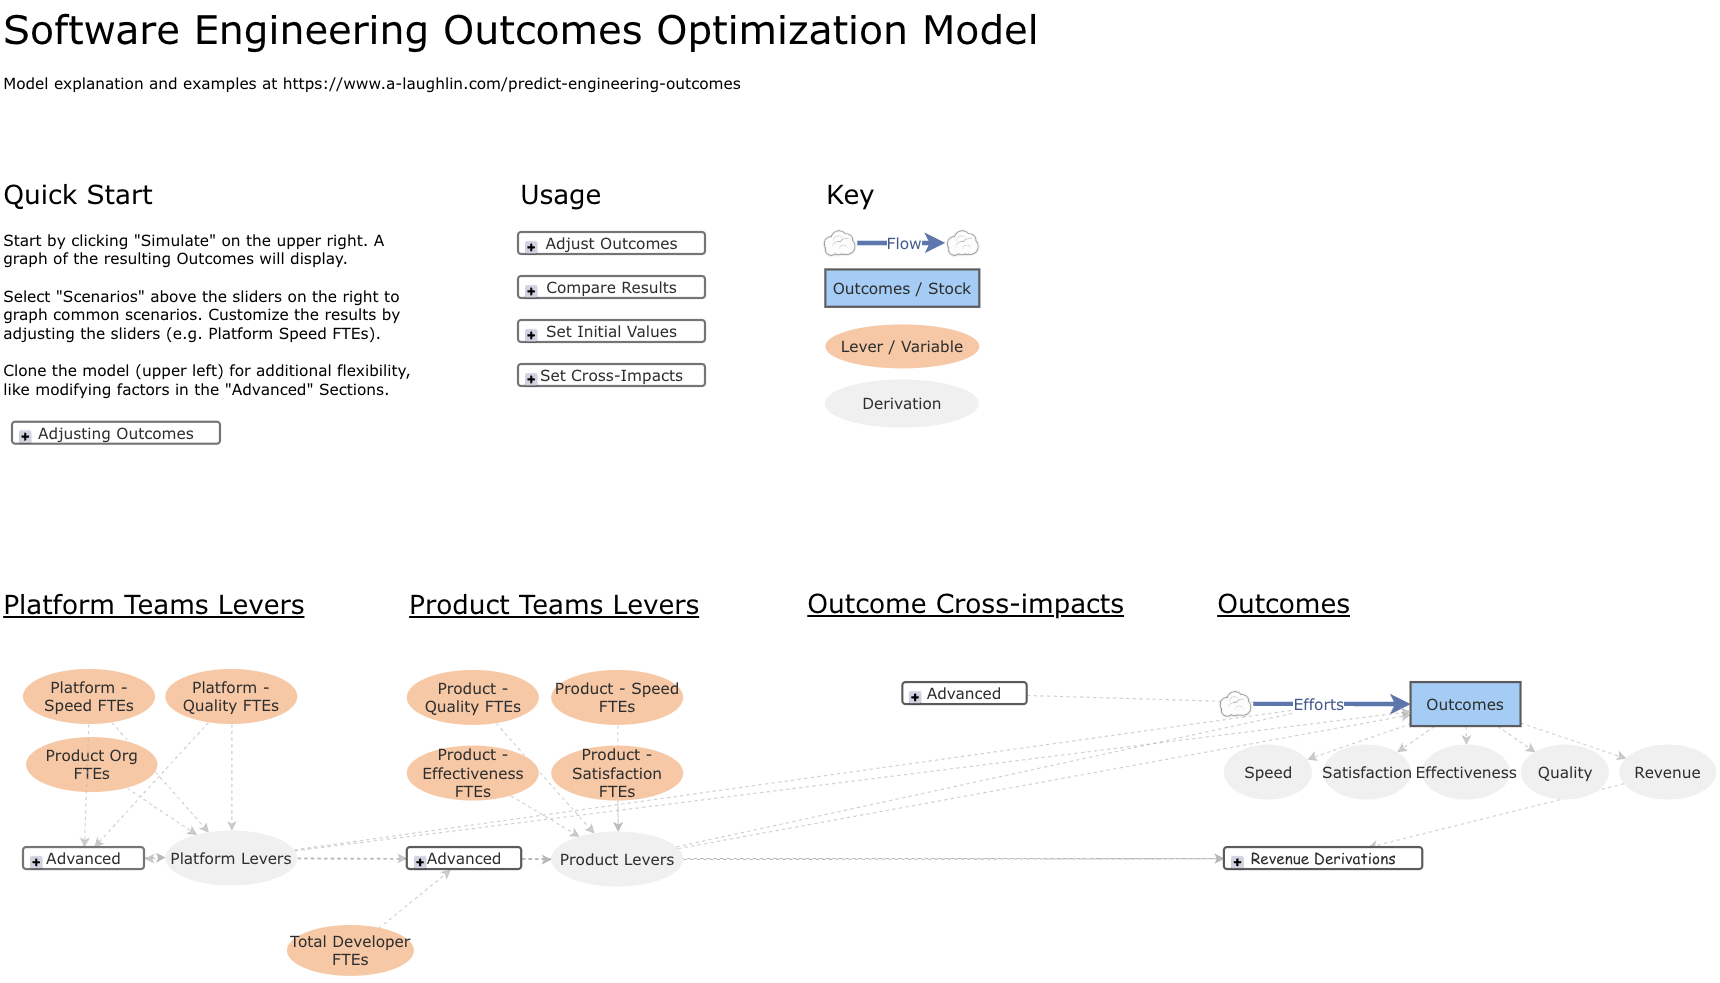
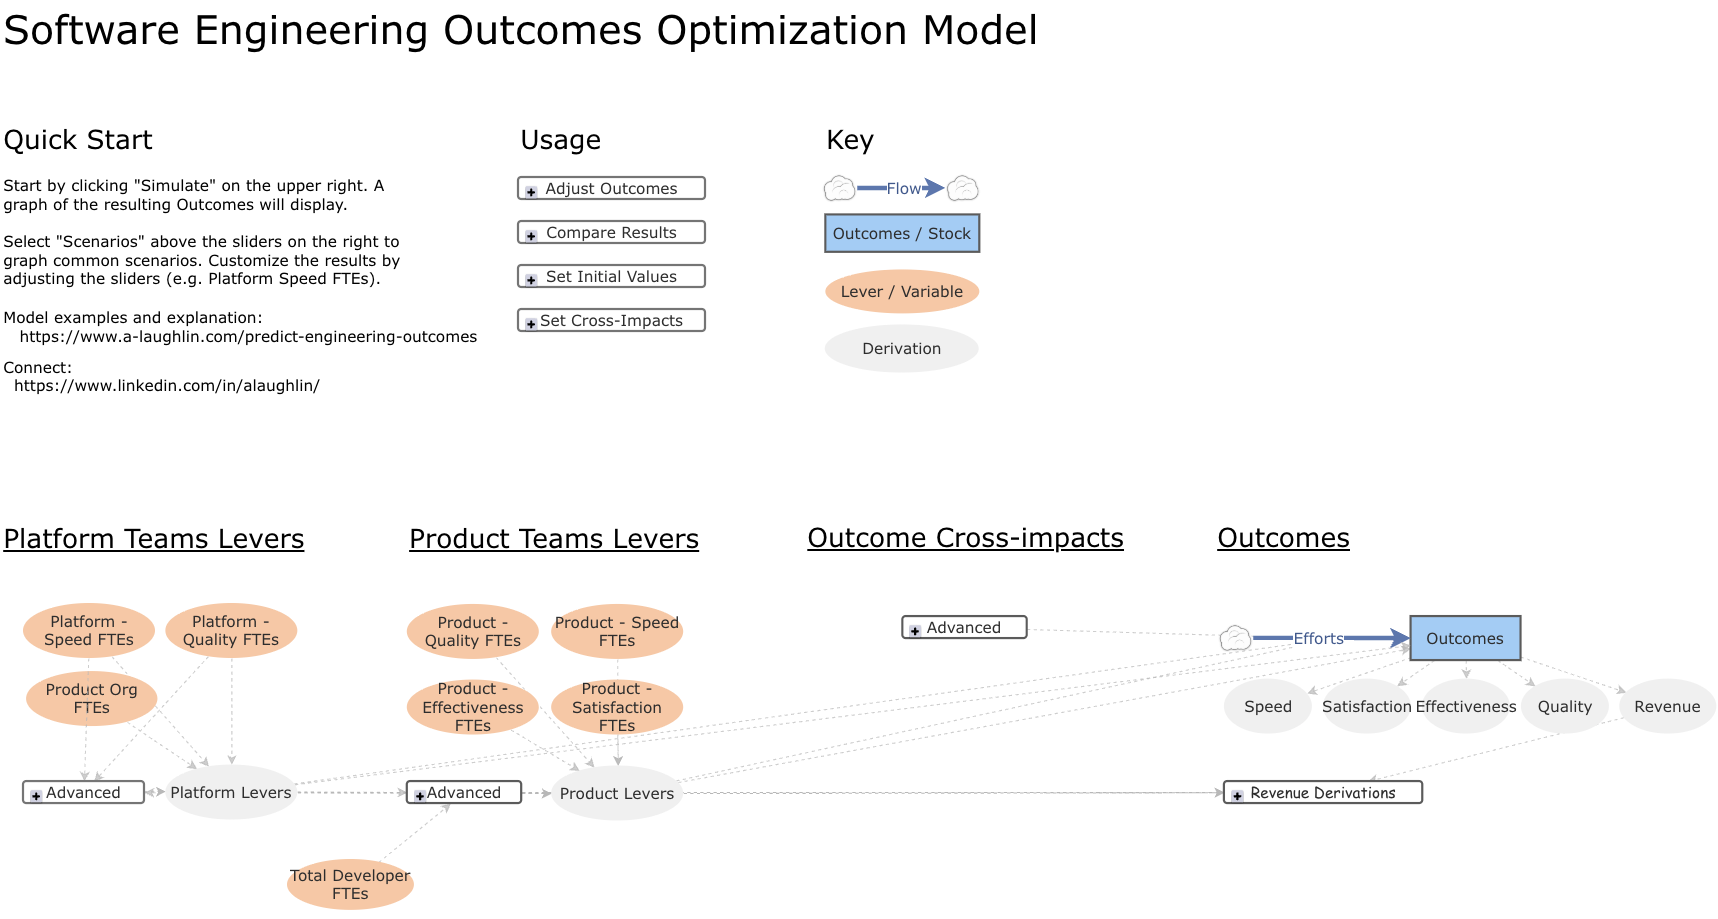
updates

diff --git a/_posts/2025-09-30-predict-engineering-outcomes.md b/_posts/2025-09-30-predict-engineering-outcomes.md
@@ -21,6 +21,8 @@ Like any model, it is wrong but useful.
   - [How Should We Allocate Developers to Maximize Revenue?](#how-should-we-allocate-developers-to-maximize-revenue)
   - [How Can We Justify Platform / Infrastructure Work?](#how-can-we-justify-platform--infrastructure-work)
   - [Should Product Engineering Teams Develop Their Own Tools and Processes?](#should-product-engineering-teams-develop-their-own-tools-and-processes)
+- [System Dynamics Modeling](#system-dynamics-modeling)
+- [The Model](#the-model)
 - [How the Model Gets from FTEs to Outcomes](#how-the-model-gets-from-ftes-to-outcomes)
 - [How Each Outcome is Modeled](#how-each-outcome-is-modeled)
   - [Speed](#speed)
@@ -29,7 +31,6 @@ Like any model, it is wrong but useful.
   - [Quality](#quality)
   - [Revenue](#revenue)
 - [Assumptions, Omissions, and Oversimplifications](#assumptions-omissions-and-oversimplifications)
-- [The](#the)
 - [References](#references)
 
 
@@ -115,15 +116,29 @@ Due to each team's small self-adoption scale (default around 5 engineers), total
 
 Platform teams' adoption scale for common processes and tools yields the same 50% speed increase and 70% greater cumulative net revenue (262%), with just 0.3 FTEs.
 
-That's it for examples.  Check out the [the model](https://insightmaker.com/insight/3mOyx2fKEkQ6SKMyenE7or/Software-Engineering-Optimization-Model) for additional scenarios and to tweak team sizes, adoption rates, revenue contributors, and other variables.
+That's it for examples.  Let's look at this type of modeling in general, and drill down to the model specifics.
 
-The next section is for
+## System Dynamics Modeling
+
+The simulations above are generated by a System Dynamics "Stock and Flow" model. For a intro to the thinking behind models like this, check out [Thinking in Systems](https://www.amazon.com/dp/1603580557) by Donella Meadows. It is a short, accessible, and illuminating read.
+
+Will Larson and John Cutler have also written great articles on decision making with models. Here are links to modeling articles on [Will's Blog](https://lethain.com/strategy-systems-modeling/) and [John's Blog](https://cutlefish.substack.com/p/tbm-5552-making-a-model-step-by-step).  Will's post also contains a 2 minute primer to the concepts.
+
+## The Model
+
+The Stock and Flow model behind this article's examples is built on Insightmaker.com so you can clone and customize it for your own purposes.
+
+It predicts how FTE allocations to product/platform teams impact 5 Engineering Outcomes: Speed, Satisfaction, Effectiveness, Quality, and Revenue.
+
+Here's [a link to the model](https://insightmaker.com/insight/3mOyx2fKEkQ6SKMyenE7or/Software-Engineering-Optimization-Model), and here's what you'll see when visiting it.
+
+![Visual of Software Engineering Outcomes Optimization Model](../images/outcomes-optimization-model.png)
 
 ## How the Model Gets from FTEs to Outcomes
 
 This section is for those who want to understand the math behind the model.
 
-Each outcome's is modeled as a linear equation with additional cross-impacts.
+Each outcome is modeled as a linear equation with additional cross-impacts that reshape the line.
 ```
 For all o in Outcomes: y_nextₒ = yₒ + slopeₒ + ∑ impactsₒ
 ```
@@ -131,7 +146,7 @@ For all o in Outcomes: y_nextₒ = yₒ + slopeₒ + ∑ impactsₒ
 
 `y_nextₒ` is the outcome's next `y` value since the model runs cyclically.
 
-`slopeₒ` is the conversion of an outcome's allocated FTEs into its yearly improvement. It is based on Peter Seible's Enablement Effectiveness Model [3](#flowers), with adjustments for adoption rate and product vs platform team improvements. Speed's slope, for example, is modeled like:
+`slopeₒ` converts the outcome's allocated FTEs into its yearly improvement. It is based on Peter Seible's Enablement Effectiveness Model [³](#flowers), with adjustments for adoption rate and product vs platform team improvements. Speed's slope, for example, is modeled like:
 ```
 slope = (
   product.speed_ftes
@@ -152,7 +167,7 @@ power:  `Δy impactₒ = other_y₁^power/other_y₁ - 1`
 ## How Each Outcome is Modeled
 
 ### Speed
-While the model itself is agnostic to speed's definition, the default \[Outcome]->Speed cross-impact values assume a meaning of Perceived Productivity as defined in Microsoft's Research [¹](#microsoft).
+While the model itself is agnostic to speed's definition, the default \[Outcome]->Speed cross-impact values assume a meaning of Perceived Productivity as used in Microsoft's Research [¹](#microsoft).
 
 One quirk of the model here. In the examples the speed dropped to 0 as quality did. Given that the model's default meaning of speed is perceived productivity, and as humans we're unlikely to perceive ourselves as 0% productive, the model's speed dropping to 0% is an unlikely outcome. More likely it continuously slows as it approaches 0.
 
@@ -163,7 +178,7 @@ Initial value: 1
 
 
 ### Satisfaction
-While the model itself is agnostic to Satisfaction's definition, the default satisfaction cross-impact values assume a meaning of self-reported job satisfaction as defined in Microsoft's Research [¹](#microsoft). While other engineering stakeholders' satisfactions are important engineering outcomes (e.g. Customers, Executives, Product Managers, Platform Teams), this model currently excludes them for simplicity and/or lack of contributing factor research.
+While the model itself is agnostic to Satisfaction's definition, the default satisfaction cross-impact values assume a meaning of self-reported job satisfaction as used in Microsoft's Research [¹](#microsoft). While other engineering stakeholders' satisfactions are important engineering outcomes (e.g. Customers, Executives, Product Managers, Platform Teams), this model currently excludes them for simplicity and/or lack of contributing factor research.
 
 0 means product engineers' complete dissatisfaction. 1 means product engineers' complete satisfaction.
 
@@ -211,7 +226,6 @@ Initial value in simulation (Net Revenue % Change): 1, though can be less depend
 
 - The model makes a number of assumptions for convenience. For example, Team sizes default to 7 members with 1 PM, 1 Designer, and 5 Developers. Costs for each type of headcount have default values, and Initial Yearly Revenue defaults to total yearly cost * 10.
 
-## The
 
 ## References
 
